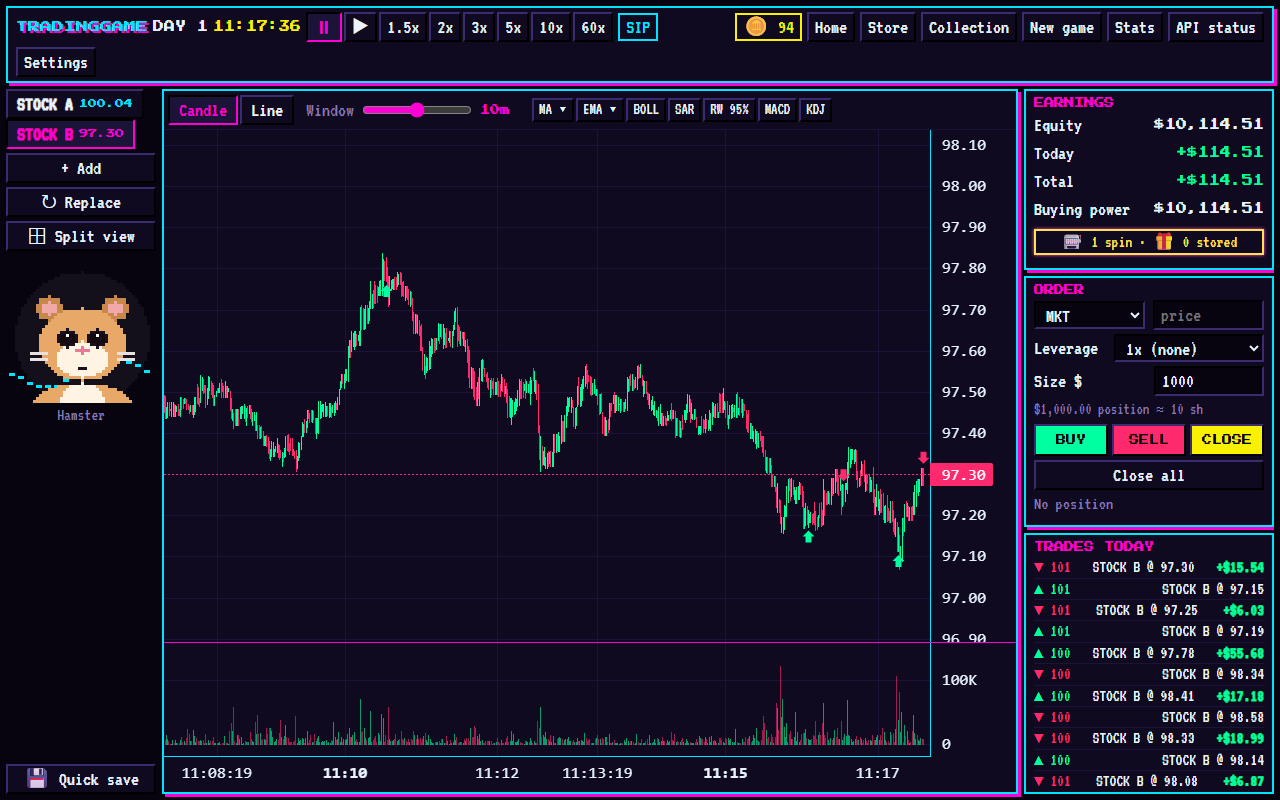
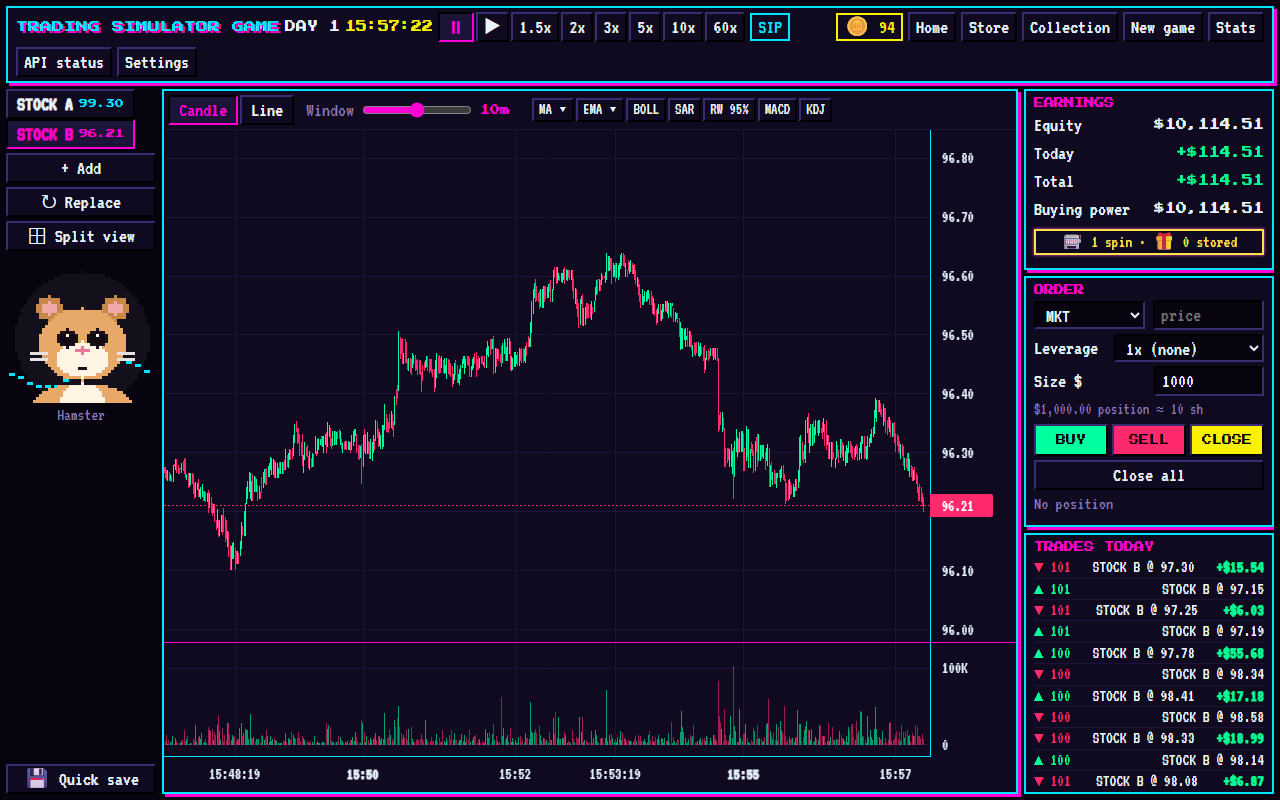
Rename to Trading Simulator Game; Windows build (PyInstaller) with data beside the exe

diff --git a/web/setup.js b/web/setup.js
@@ -17,15 +17,15 @@ export function showSetup(root, { reason = '', onDone, onCancel = null }) {
   root.hidden = false;
   root.innerHTML = `
     <div class="window setup">
-      <div class="titlebar">TradingGame Setup</div>
+      <div class="titlebar">Trading Simulator Game Setup</div>
       <div class="window-body setup-body">
         <section>
           ${reason ? `<p class="notice">${reason}</p>` : ''}
-          <h1>TradingGame replays REAL market data.</h1>
+          <h1>Trading Simulator Game replays REAL market data.</h1>
           <p>Every game replays real trades from real US stocks on a random day between 2020 and 2025. The data comes
           from Alpaca, a US broker that gives free historical market data. To download it, you need your own
           free Alpaca key. It takes about 3 minutes, costs nothing, needs no bank account or ID, and works
-          from any country. Your key and data stay on your computer; TradingGame never sends them anywhere else.</p>
+          from any country. Your key and data stay on your computer; Trading Simulator Game never sends them anywhere else.</p>
         </section>
         <section>
           <ol>${STEPS.map((s) => `<li>${s}</li>`).join('')}</ol>
@@ -85,7 +85,7 @@ export function showSetup(root, { reason = '', onDone, onCancel = null }) {
       form.onsubmit = (ev) => { ev.preventDefault(); root.hidden = true; onDone(body.feed); };
     } catch {
       result.className = 'bad';
-      result.textContent = "Couldn't reach the TradingGame server. Is it still running?";
+      result.textContent = "Couldn't reach the Trading Simulator Game server. Is it still running?";
     } finally {
       submit.disabled = false;
     }

diff --git a/web/index.html b/web/index.html
@@ -3,7 +3,7 @@
 <head>
   <meta charset="utf-8">
   <meta name="viewport" content="width=device-width, initial-scale=1">
-  <title>TradingGame</title>
+  <title>Trading Simulator Game</title>
   <link rel="preconnect" href="https://fonts.googleapis.com">
   <link rel="preconnect" href="https://fonts.gstatic.com" crossorigin>
   <link href="https://fonts.googleapis.com/css2?family=Orbitron:wght@500;700&family=Press+Start+2P&family=Rajdhani:wght@500;700&family=Share+Tech+Mono&family=VT323&display=swap" rel="stylesheet">
@@ -14,7 +14,7 @@
 
   <main id="game" hidden>
     <header class="topbar">
-      <span class="logo">TRADINGGAME</span>
+      <span class="logo">TRADING SIMULATOR GAME</span>
       <span id="day" class="num">—</span>
       <span id="clock" class="num">--:--:--</span>
       <span id="speeds" class="group"></span>

diff --git a/web/collect.js b/web/collect.js
@@ -291,7 +291,7 @@ export function initCollection(ctx) {
     const owned = ownedMap();
     if (!pick) {
       box.innerHTML = `<div class="box-title">${data.collection.categories[cat].toUpperCase()}</div>
-        <p class="muted">Every 5 trades the slot machine spins; a GIFT puts a new piece in its cabinet. Rarer pieces come up less often:
+        <p class="muted">Every 5 trades earns a slot machine spin; when you use a stored GIFT, a new piece goes in its cabinet. Rarer pieces come up less often:
         <span style="color:${RARITY.rare}">rare</span>, <span style="color:${RARITY.epic}">epic</span>,
         <span style="color:${RARITY.legendary}">legendary</span>, <span style="color:${RARITY.mythic}">mythic</span>.
         Collection pieces can never be sold. Click a piece to look closer.</p>`;

diff --git a/app/__main__.py b/app/__main__.py
@@ -1,5 +1,6 @@
 """Desktop app: run the server in a background thread and show the game in a native window."""
 import socket
+import sys
 import threading
 import time
 
@@ -22,13 +23,16 @@ def pick_port():
 
 
 def main():
+    if sys.stdout is None:  # the packaged windowed build has no console: write output to data/log.txt
+        DATA_DIR.mkdir(parents=True, exist_ok=True)
+        sys.stdout = sys.stderr = open(DATA_DIR / "log.txt", "w", encoding="utf-8", buffering=1)
     port = pick_port()
     uv = uvicorn.Server(uvicorn.Config(server.app, host="127.0.0.1", port=port, log_level="warning"))
     thread = threading.Thread(target=uv.run, daemon=True)
     thread.start()
     while not uv.started and thread.is_alive():
         time.sleep(0.05)
-    window = webview.create_window("TradingGame", f"http://127.0.0.1:{port}/", width=1280, height=800,
+    window = webview.create_window("Trading Simulator Game", f"http://127.0.0.1:{port}/", width=1280, height=800,
                                    min_size=(360, 520), background_color="#07040f")
     server.exit_hook = window.destroy  # "Exit game" in the settings menu closes the window
     webview.start(private_mode=False, storage_path=str(DATA_DIR / "webview"))

diff --git a/app/data.py b/app/data.py
@@ -2,6 +2,7 @@
 import asyncio
 import logging
 import shutil
+import sys
 import time
 from dataclasses import dataclass, field
 from pathlib import Path
@@ -12,7 +13,8 @@ import pandas as pd
 
 log = logging.getLogger(__name__)
 
-DATA_DIR = Path(__file__).resolve().parent.parent / "data"
+# Keys, saves and the data cache. The packaged Windows build keeps them next to its .exe.
+DATA_DIR = (Path(sys.executable).parent if getattr(sys, "frozen", False) else Path(__file__).resolve().parent.parent) / "data"
 CACHE_DIR = DATA_DIR / "cache"
 DATA_URL = "https://data.alpaca.markets/v2"
 TRADING_URL = "https://paper-api.alpaca.markets/v2"

diff --git a/app/agent.py b/app/agent.py
@@ -19,7 +19,7 @@ ANTHROPIC_URL = "https://api.anthropic.com"
 OPENAI_URL = "https://api.openai.com/v1"
 SIDES = ("buy", "sell", "close")
 
-STANDARD_PROMPT = """You are an experienced, disciplined intraday trader playing TradingGame, a day-trading simulator \
+STANDARD_PROMPT = """You are an experienced, disciplined intraday trader playing Trading Simulator Game, a day-trading simulator \
 that replays real US stock trades second by second.
 
 - The stocks are anonymous (STOCK A, STOCK B, ...). Prices are rescaled so each stock opened at $100 on its \

diff --git a/packaging/launcher.py b/packaging/launcher.py
@@ -1,0 +1,4 @@
+# Entry point for the packaged Windows build (PyInstaller); see build_windows.bat.
+from app.__main__ import main
+
+main()

diff --git a/README.md b/README.md
@@ -1,4 +1,4 @@
-# TradingGame
+# Trading Simulator Game
 
 A single-player, retro pixel-style day-trading practice game. It replays real US stock trades, second by
 second, from a random day between 2020 and 2025, and hides which stock and which day it is, so you trade
@@ -22,17 +22,21 @@ On Windows, double-click `start.bat`. The first run creates a local `.venv` and 
 By hand, on any system:
 
 ```
-git clone https://github.com/jerry2411111/tradinggame.git
-cd tradinggame
+git clone https://github.com/jerry2411111/trading-simulator-game.git
+cd trading-simulator-game
 python -m venv .venv
 .venv/Scripts/activate        # Windows; on macOS / Linux: source .venv/bin/activate
 pip install -r requirements.txt
 python -m app
 ```
 
-This opens TradingGame in its own desktop window (resize it by dragging any edge or corner; the app
+This opens Trading Simulator Game in its own desktop window (resize it by dragging any edge or corner; the app
 always fills the window). To play in a browser instead, run `uvicorn app.main:app` and open
 http://127.0.0.1:8000.
+
+To build the ready-to-run Windows version yourself (an `.exe` that doesn't need Python), run
+`packaginguild_windows.bat`; the result is in `dist\Trading Simulator Game`. It keeps its keys and
+saves in a `data` folder next to the `.exe`.
 
 ## Getting the market-data key
 
